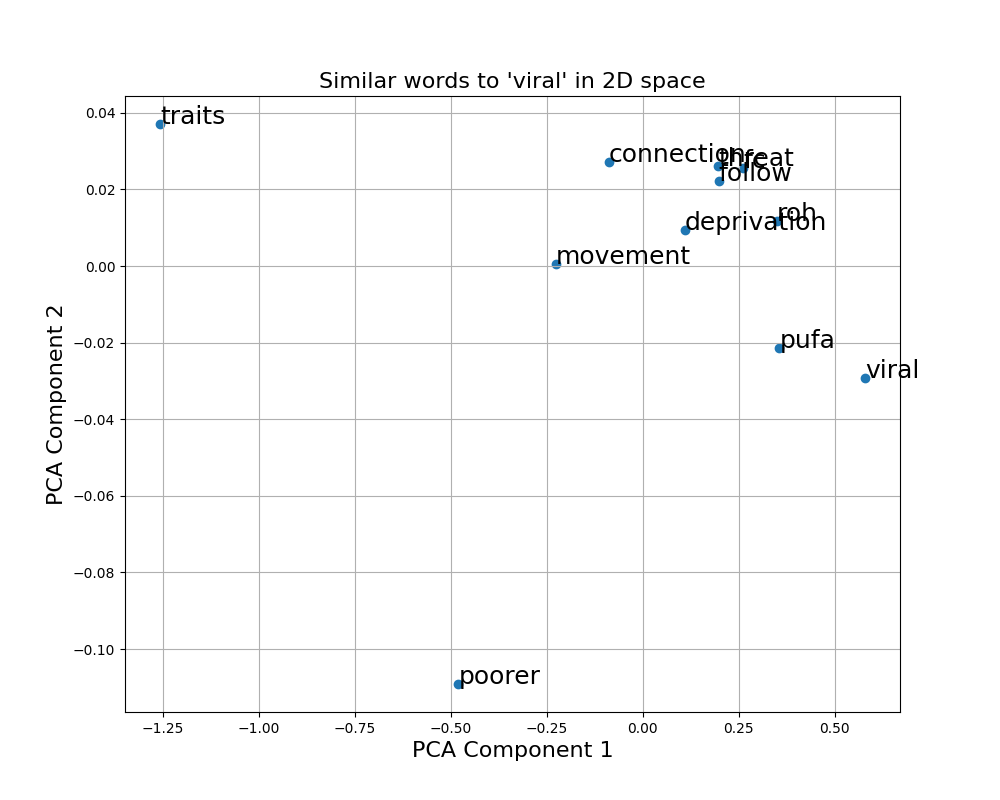
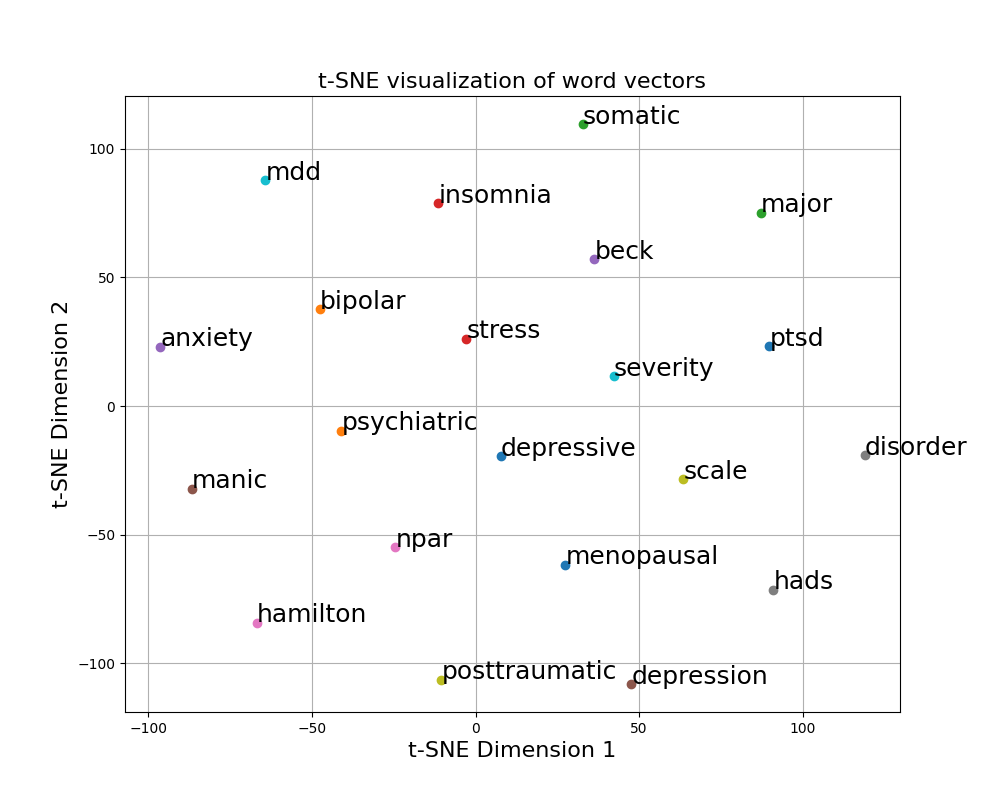
[FEATURE] plot tsne

diff --git a/django_project3/project3/scripts/utils.py b/django_project3/project3/scripts/utils.py
@@ -5,7 +5,7 @@ from nltk.corpus import stopwords
 from project3.models import PubMedArticle
 from gensim.models import Word2Vec
 import matplotlib.pyplot as plt
-from sklearn.decomposition import PCA
+from sklearn.manifold import TSNE
 import numpy as np
 
 
@@ -64,6 +64,7 @@ def check_similarity(word1, word2):
 def predict_cbow_word(keyword,k):
     if keyword in CBOWmodel.wv:
         similar_words = CBOWmodel.wv.most_similar(keyword, topn=k)
+        print(k)
         words = [word for word, score in similar_words]
         words.insert(0,keyword)
         plot_embeddings(words,CBOWmodel,'project3/static/img/cbow_embeddings.png')
@@ -81,15 +82,20 @@ def predict_sg_word(keyword,k):
 
 def plot_embeddings(words,model,filename):
     vectors = model.wv[words]
-    pca = PCA(n_components=2)
-    reduced_vectors = pca.fit_transform(vectors)
+    n_samples = len(vectors)
+    perplexity = min(30, n_samples - 1)
+    tsne = TSNE(n_components=2, random_state=42, perplexity=perplexity, n_iter=1000)
+    vectors_2d = tsne.fit_transform(vectors)
+    
+
     plt.figure(figsize=(10, 8))
-    plt.scatter(reduced_vectors[:, 0], reduced_vectors[:, 1])
     for i, word in enumerate(words):
-        plt.annotate(word, (reduced_vectors[i, 0], reduced_vectors[i, 1],), fontsize=18)
-    plt.title(f"Similar words to '{words[0]}' in 2D space", fontsize=16)
-    plt.xlabel("PCA Component 1", fontsize=16)
-    plt.ylabel("PCA Component 2", fontsize=16)
+        x, y = vectors_2d[i, :]
+        plt.scatter(x, y)
+        plt.text(x+0.1, y+0.1, word, fontsize=18)
+    plt.title(f"t-SNE visualization of word vectors", fontsize=16)
+    plt.xlabel("t-SNE Dimension 1", fontsize=16)
+    plt.ylabel("t-SNE Dimension 2", fontsize=16)
     plt.grid()
     plt.savefig(filename,format='png')
 

diff --git a/django_project3/project3/views.py b/django_project3/project3/views.py
@@ -21,8 +21,8 @@ def main_page(request, word1=None, word2=None):
 
     if request.method == 'POST' and word1 and word2:
         cbow_score, sg_score = check_similarity(word1, word2)
-        cbow_words = predict_cbow_word(word1, 10)
-        sg_words = predict_sg_word(word1, 10)
+        cbow_words = predict_cbow_word(word1, 20)
+        sg_words = predict_sg_word(word1, 20)
 
     context = {
         'top_k_words': top_k_words,
@@ -47,18 +47,18 @@ def main_page(request, word1=None, word2=None):
 
     
 
-@csrf_exempt
-def similar_word_view(request):
-    if request.method == 'POST':
-        data = json.loads(request.body)
-        word1 = data.get('word1')
-        cbow_words = predict_cbow_word(word1,10)   
-        sg_words = predict_sg_word(word1,10)
-        print(cbow_words)  
-        print(sg_words)
+# @csrf_exempt
+# def similar_word_view(request):
+#     if request.method == 'POST':
+#         data = json.loads(request.body)
+#         word1 = data.get('word1')
+#         cbow_words = predict_cbow_word(word1,10)   
+#         sg_words = predict_sg_word(word1,10)
+#         print(cbow_words)  
+#         print(sg_words)
        
-        return JsonResponse({
-            'cbow_words': cbow_words,
-            'sg_words':sg_words
-            })
+#         return JsonResponse({
+#             'cbow_words': cbow_words,
+#             'sg_words':sg_words
+#             })
     
